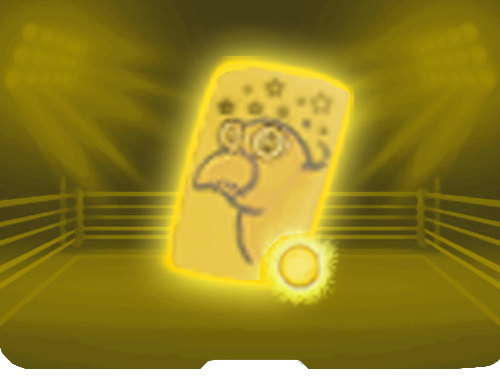
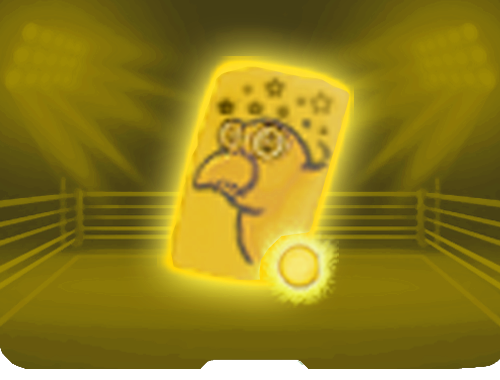
enable relic-based penaltycardlisteners (fixing Dented Trophy); tweak yellow card / orb art

Changed region(s): [[0.33, 0.1737, 0.72, 0.7526]]

diff --git a/src/main/java/thewrestler/util/info/penaltycard/PenaltyCardInfo.java b/src/main/java/thewrestler/util/info/penaltycard/PenaltyCardInfo.java
@@ -86,8 +86,10 @@ public class PenaltyCardInfo implements StartOfCombatListener, EndOfCombatListen
     WrestlerCharacter.getPenaltyCardInfo().resetForTurn();
     List<AbstractPenaltyCardListener> listeners = new ArrayList<>();
     penaltyCard.triggerOnCardGained();
-    listeners.addAll(getPenaltyCardListenerCards());
+    // ORDER COULD MATTER HERE
+    listeners.addAll(getPenaltyCardListenerRelics());
     listeners.addAll(getPenaltyCardListenerPowers());
+    listeners.addAll(getPenaltyCardListenerCards());
     listeners.forEach(listener -> listener.onGainedPenaltyCard(penaltyCard));
     CombatInfo.incrementPenaltyCardsGainedThisCombatCount();
     resetPenaltyOrbs();
@@ -253,6 +255,11 @@ public class PenaltyCardInfo implements StartOfCombatListener, EndOfCombatListen
     return dirtyCards;
   }
 
+  public static List<AbstractPenaltyCardListener> getPenaltyCardListenerRelics() {
+    return AbstractDungeon.player.relics.stream()
+        .filter(p -> p instanceof AbstractPenaltyCardListener)
+        .map(p -> (AbstractPenaltyCardListener)p).collect(Collectors.toList());
+  }
 
   public static List<AbstractPenaltyCardListener> getPenaltyCardListenerPowers() {
     return AbstractDungeon.player.powers.stream()
@@ -260,7 +267,7 @@ public class PenaltyCardInfo implements StartOfCombatListener, EndOfCombatListen
         .map(p -> (AbstractPenaltyCardListener)p).collect(Collectors.toList());
   }
 
-    public static List<AbstractPenaltyCardListener> getPenaltyCardListenerCards() {
+  public static List<AbstractPenaltyCardListener> getPenaltyCardListenerCards() {
     final List<AbstractPenaltyCardListener> cards = new ArrayList<>();
 
     AbstractPlayer player = AbstractDungeon.player;

diff --git a/src/main/java/thewrestler/relics/DentedTrophy.java b/src/main/java/thewrestler/relics/DentedTrophy.java
@@ -2,15 +2,9 @@ package thewrestler.relics;
 
 import com.badlogic.gdx.graphics.Texture;
 import com.megacrit.cardcrawl.actions.common.RelicAboveCreatureAction;
-import com.megacrit.cardcrawl.actions.utility.SFXAction;
-import com.megacrit.cardcrawl.cards.AbstractCard;
-import com.megacrit.cardcrawl.characters.AbstractPlayer;
 import com.megacrit.cardcrawl.dungeons.AbstractDungeon;
 import com.megacrit.cardcrawl.localization.Keyword;
-import com.megacrit.cardcrawl.monsters.AbstractMonster;
 import thewrestler.WrestlerMod;
-import thewrestler.actions.UpgradeRandomCardInDrawPileAction;
-import thewrestler.cards.WrestlerCardTags;
 import thewrestler.cards.colorless.status.penalty.AbstractPenaltyStatusCard;
 import thewrestler.cards.skill.AbstractPenaltyCardListener;
 import thewrestler.util.TextureLoader;
@@ -38,7 +32,7 @@ public class DentedTrophy extends CustomWrestlerRelic implements AbstractPenalty
 
   @Override
   public String getUpdatedDescription() {
-    return DESCRIPTIONS[0] + STARTING_HEAL + DESCRIPTIONS[1] + HEAL_REDUCTION + DESCRIPTIONS[2];
+    return DESCRIPTIONS[0] + STARTING_HEAL + DESCRIPTIONS[1];
   }
 
   @Override

diff --git a/src/main/java/thewrestler/screens/trademarkmove/TrademarkMoveSelectScreen.java b/src/main/java/thewrestler/screens/trademarkmove/TrademarkMoveSelectScreen.java
@@ -10,15 +10,11 @@ import com.megacrit.cardcrawl.screens.select.GridCardSelectScreen;
 import com.megacrit.cardcrawl.vfx.cardManip.ExhaustCardEffect;
 import org.apache.logging.log4j.Logger;
 import thewrestler.WrestlerMod;
-import thewrestler.cards.colorless.status.penalty.*;
+import thewrestler.cards.colorless.status.penalty.AbstractPenaltyStatusCard;
 import thewrestler.screens.trademarkmove.patches.TintCardPatch;
 import thewrestler.signaturemoves.cards.AbstractSignatureMoveCard;
 import thewrestler.signaturemoves.cards.SignatureMoveCardEnum;
-import thewrestler.signaturemoves.cards.attack.Suplex;
 import thewrestler.signaturemoves.cards.old.Chokeslam;
-import thewrestler.signaturemoves.cards.skill.ChopBlock;
-import thewrestler.signaturemoves.cards.skill.DoomsdayDevice;
-import thewrestler.signaturemoves.cards.skill.ElbowSmash;
 
 import java.util.ArrayList;
 import java.util.Arrays;
